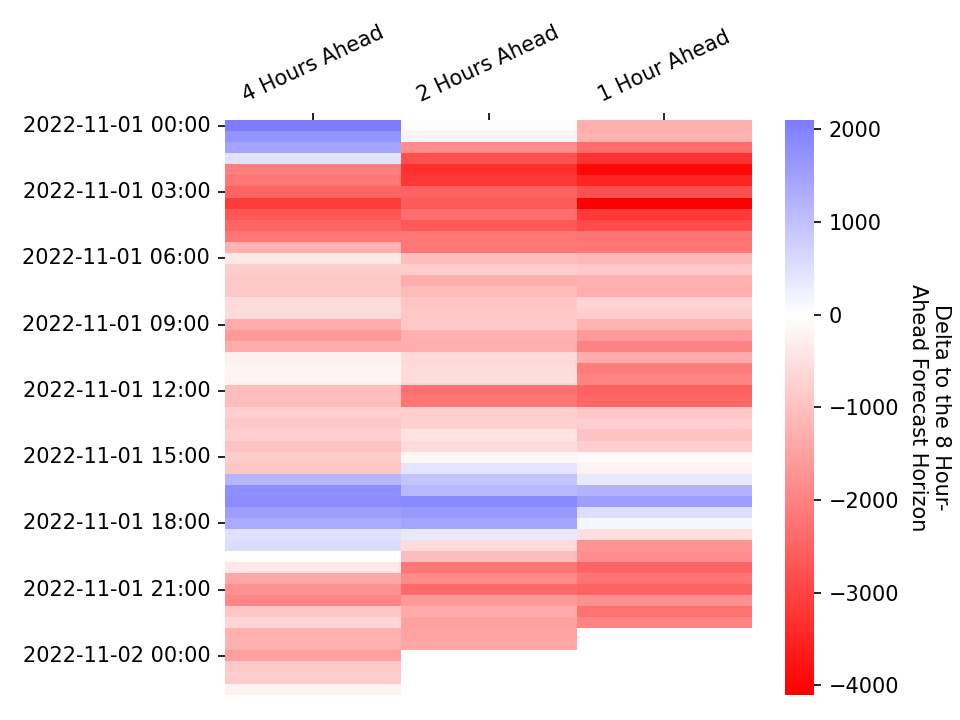
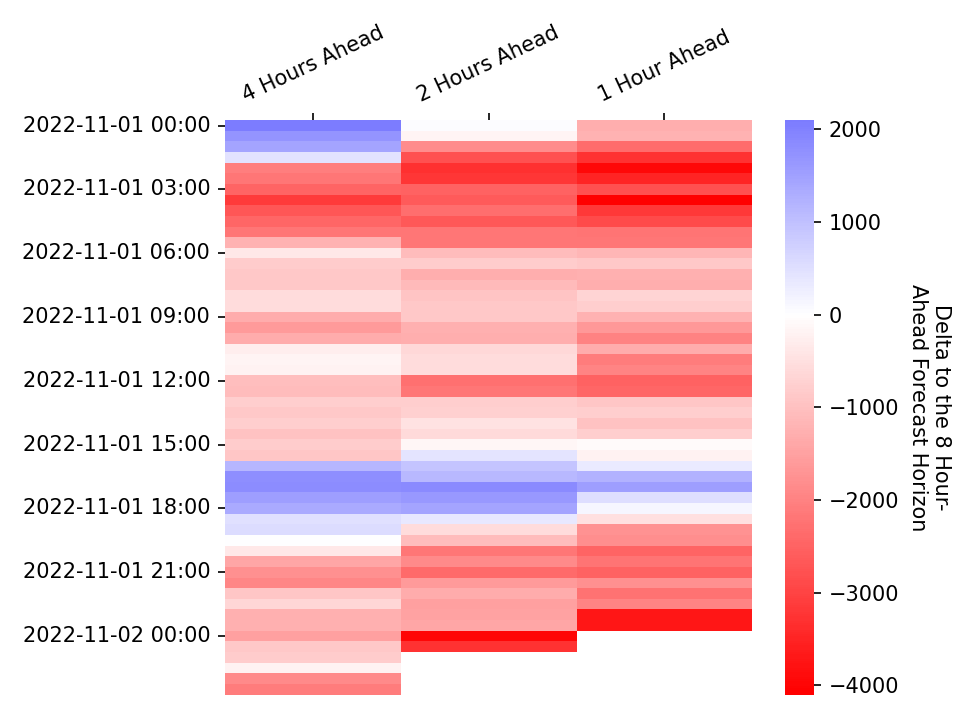
Apply automatic changes

diff --git a/docs/js/map.js b/docs/js/map.js
@@ -144,7 +144,7 @@ document.addEventListener("DOMContentLoaded", function() {
                 follow: 1
             });
             mymap.addControl(sliderControl);
-            sliderControl.startSlider(334);
+            sliderControl.startSlider(335);
         });
     });
 });

diff --git a/docs/visualisations.md b/docs/visualisations.md
@@ -60,7 +60,7 @@ In each settlement period the system operator publishes the de-rated margin fore
 * At 1200 hours on each calendar day for all Settlement Periods for which Gate Closure has not yet passed and which occur within the current Operational Day or the following Operational Day; and
 * At eight, four, two and one hour(s) prior to the beginning of the Settlement Period to which the De-Rated Margin Forecast relates.
 
-These figures will be updated on an hourly basis, the last update was at: 2022-11-01 22:15
+These figures will be updated on an hourly basis, the last update was at: 2022-11-01 22:50
 
 <br>
 
@@ -83,7 +83,7 @@ The following heatmap shows how the more recent de-rated margin forecasts deviat
 
 ### Power Output Map
 
-Last Updated: 2022-11-01 22:15
+Last Updated: 2022-11-01 22:50
 
 This map shows the power output of individual plants connected to the transmission grid as stated in their most recent Physical Notifications. This data can be retrieved through the *PHYBMDATA* BMRS stream, the out-turn data can be viewed one week later through the *B1610* stream. The scrollbar at the top of the map can be used to view how the generation sources have changed their output over the last week, the layer control can be used to toggle on/off the transmission network, and the plants themselves can be clicked to reveal additional information. The plant location data used in this map has been taking from a sister project, [the Power Station Dictionary](https://osuked.github.io/Power-Station-Dictionary/), which aims to link between data about individual power plants.
 
